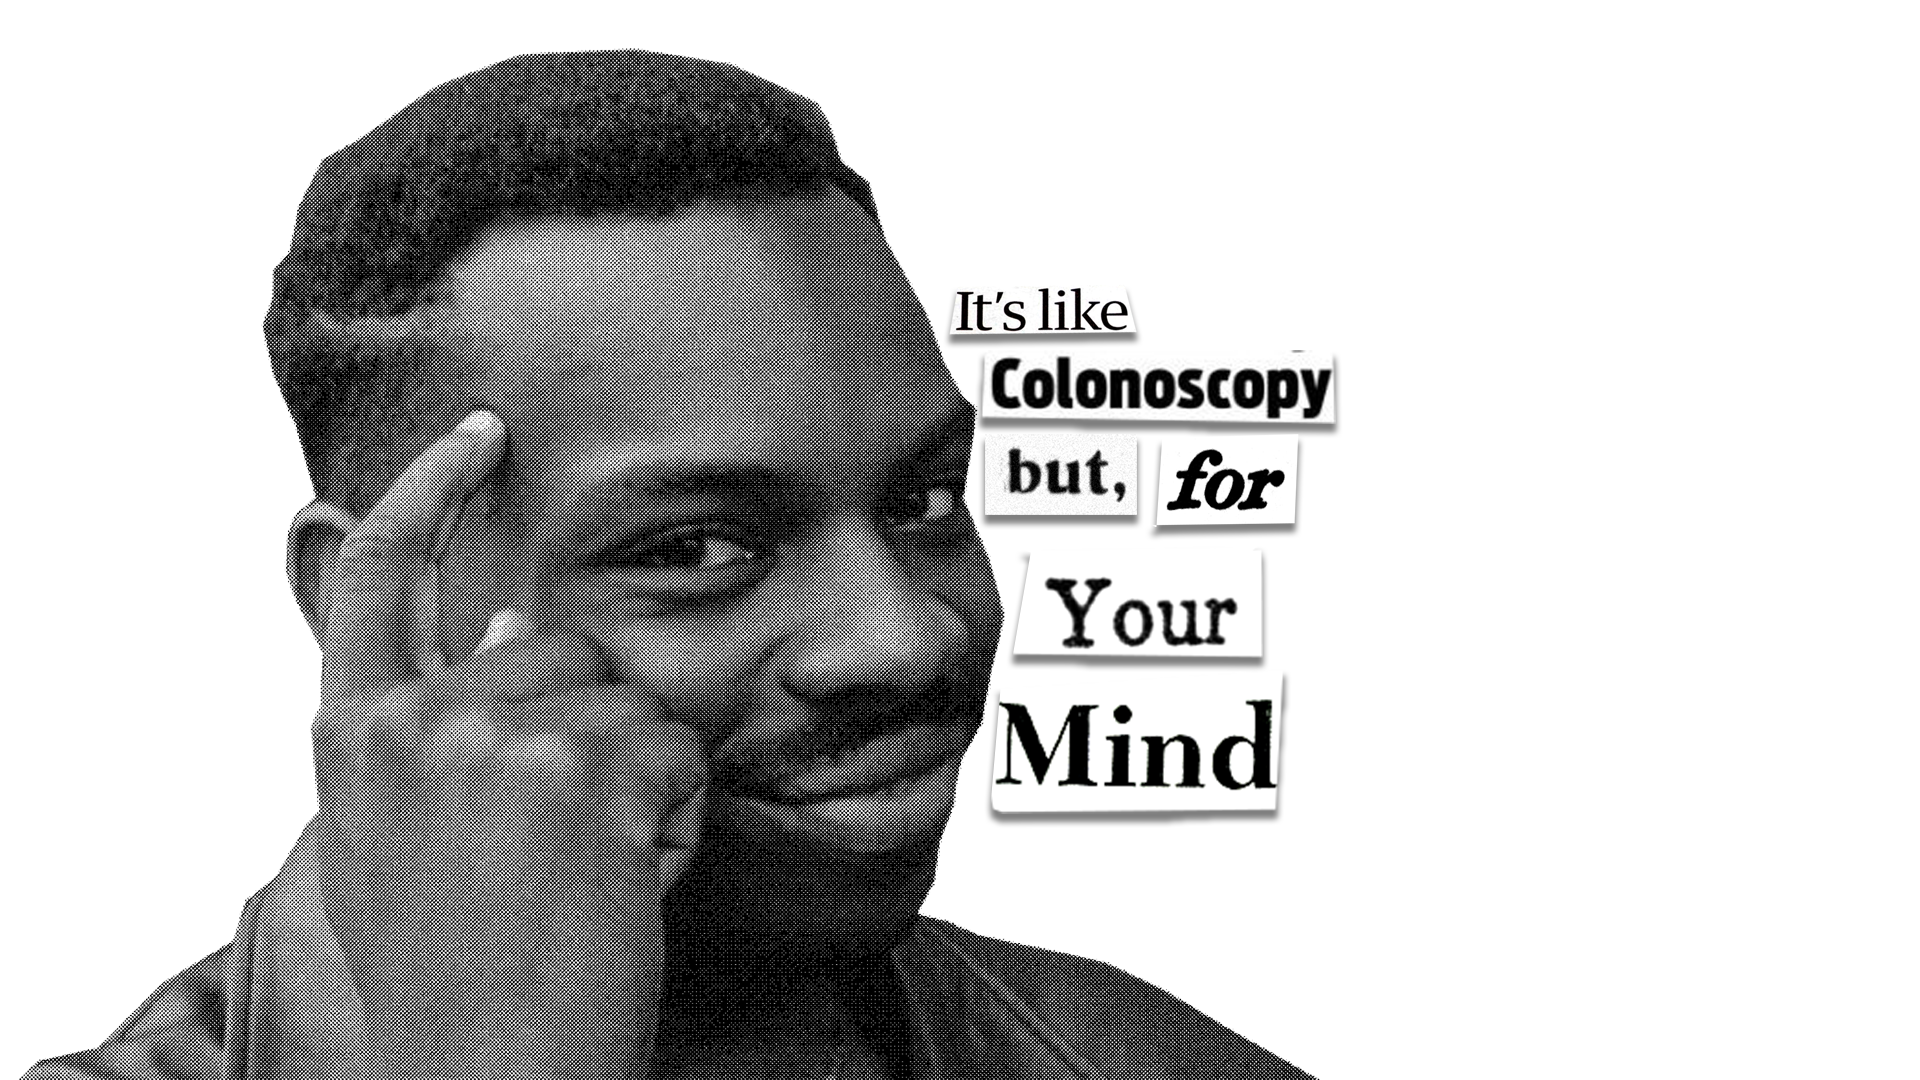
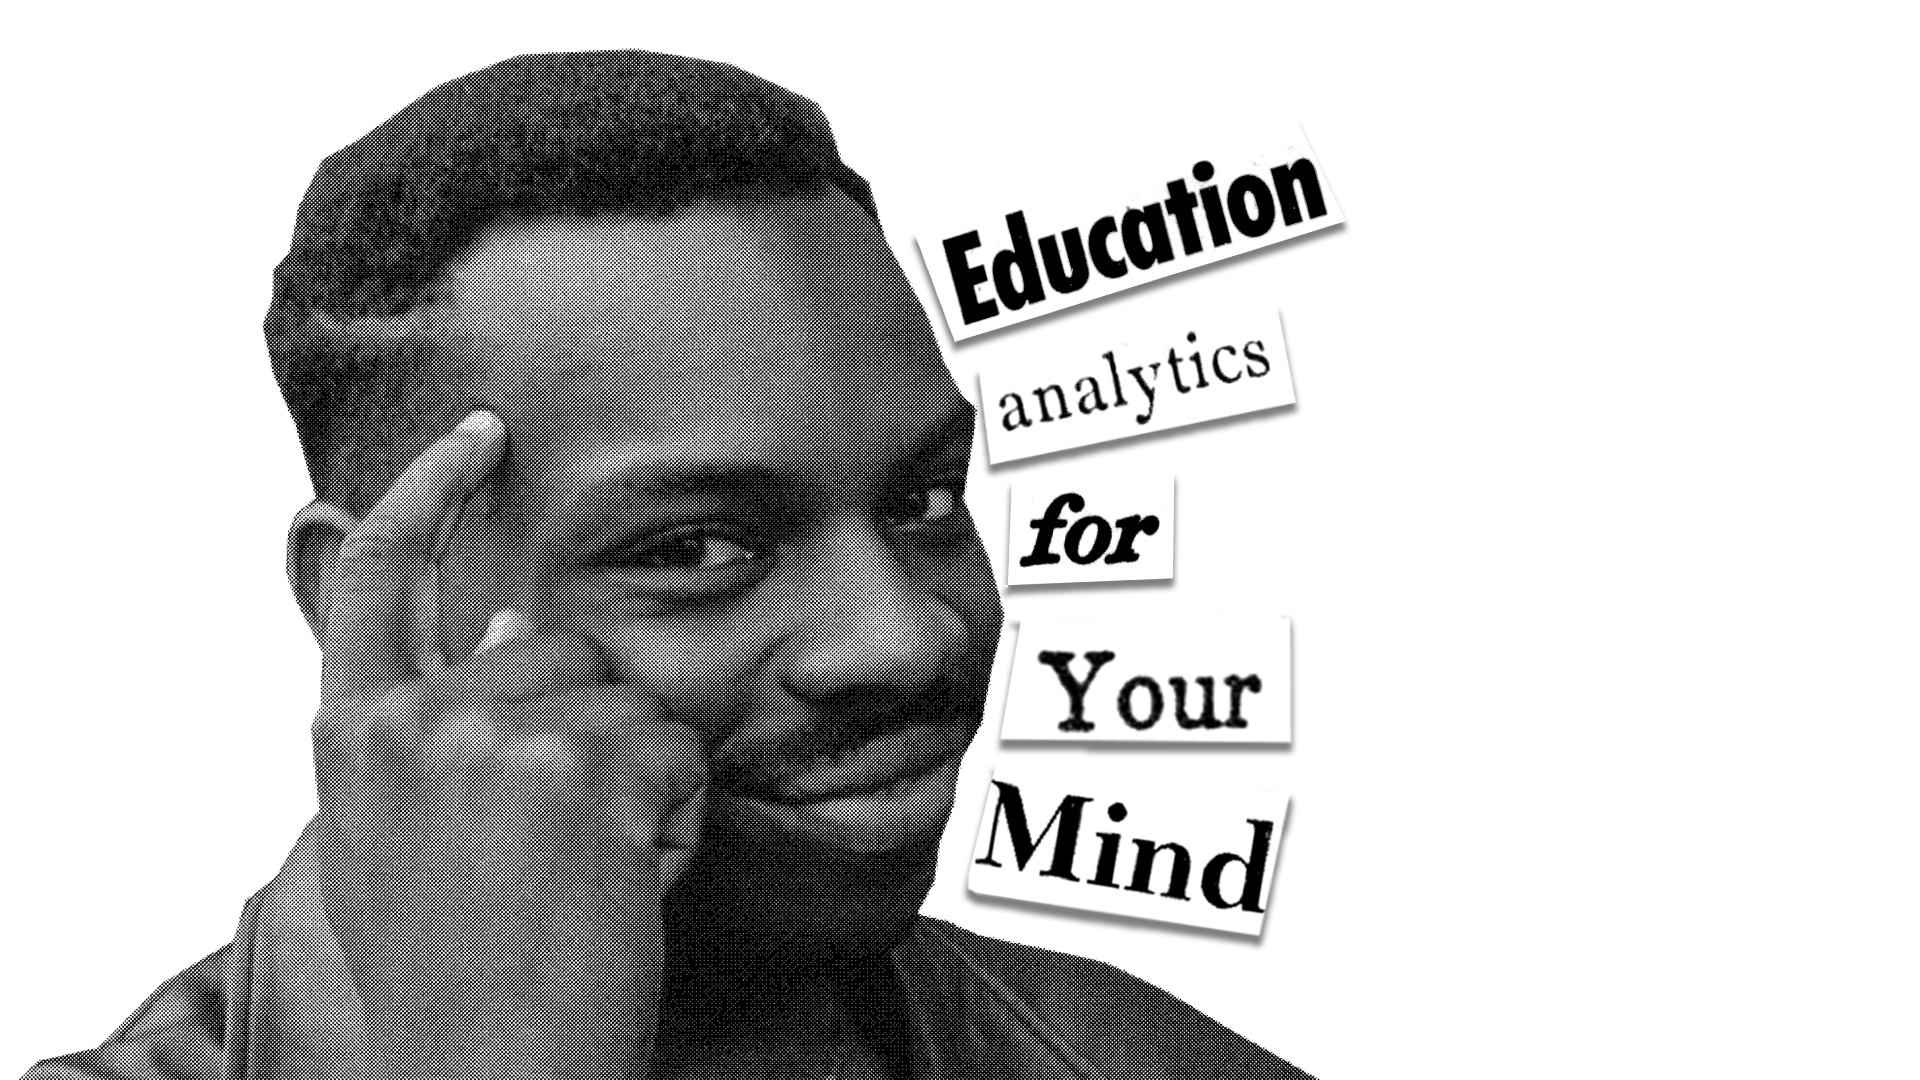
Update hero image and homepage/tests page copy

Changed region(s): [[0.4688, 0.1528, 0.7188, 0.8861]]

diff --git a/pages/templates/pages/test_prep.html b/pages/templates/pages/test_prep.html
@@ -26,12 +26,14 @@
 
 <!-- ── Hero ──────────────────────────────────────────────────────────────── -->
 <div class="tp-hero">
-  <p class="tp-hero__label">Education Analytics</p>
-  <h1 class="tp-hero__title">Every test ends with a diagnosis, not just a score.</h1>
+  <p class="tp-hero__label">Data-driven test prep</p>
+  <h1 class="tp-hero__title">Every test ends with a precise diagnosis, not just a score.</h1>
   <p class="tp-hero__sub">
-    Each test is built using statistical analysis of the official exam corpus — real question
-    distributions, real skill weightings, real trap structures. After your child finishes,
-    you see exactly which reasoning patterns cost the most points and what to work on next.
+    We do two things: we first analyze the official exam corpus to understand the underlying 
+    patterns and structures. Then we use that information to build our own diagnostic and benchmark
+    tests. Each test is built using statistical, NLP, and machine learning analysis — real question
+    distributions, real skill weightings, real trap structures. After your child completes a test,
+    you'll see exactly where they fail so you can hammer on the right areas insted of practicing blind.
   </p>
   <div style="margin-top: 20px; display: flex; gap: 12px; flex-wrap: wrap;">
     <a href="/tutor/" class="home-hero__btn home-hero__btn--secondary">For tutors</a>
@@ -45,14 +47,15 @@
     <div class="tp-card__name">SHSAT</div>
     <div class="tp-card__full">Specialized High Schools Admissions Test</div>
     <p class="tp-card__desc">
-      After one test, you'll see the 3 skills costing the most points,
-      the trap types your child keeps falling for, and projected placement
-      at every specialized high school.
+      After just one test, you'll see exactly what skills the student is a rockstar in,
+      and where they suck more than Milli Vanilli at live shows. Unlike most AI-generated 
+      test-prep slop around, we go very granular and show you (in detail) which specific
+      traps catch them the most.
     </p>
     <ul class="tp-card__facts">
       <li>Free Baseline Test — 100 questions, full trap-by-trap error analysis</li>
       <li>See which mistake patterns repeat and what to study next</li>
-      <li>Conservative scores calibrated against real admissions cutoffs</li>
+      <li>CConservative scoring so your child doesn't think they're a genius (and then choose not to study)</li>
     </ul>
     <a href="/shsat/" class="tp-card__cta">Start SHSAT diagnostic &rarr;</a>
   </div>
@@ -61,9 +64,10 @@
     <div class="tp-card__name">Hunter</div>
     <div class="tp-card__full">Hunter College High School Entrance Exam</div>
     <p class="tp-card__desc">
-      One of the most selective public schools in the country. Full error
-      analysis after every test — see exactly which skills and question types
-      are costing points, and where to focus next.
+      ne of the most selective public schools in the country. Just imagine
+      all the fun IG humble brag selfies you can take if they get in. It's hard 
+      though (only 7% get in), but our data-driven error analysis after every test 
+      will help you see if they're really cut for it or you're just another hopeful parent.
     </p>
     <ul class="tp-card__facts">
       <li>Free Baseline Test with full error analysis</li>

diff --git a/pages/templates/pages/home.html b/pages/templates/pages/home.html
@@ -31,7 +31,7 @@
     <h1 class="home-hero__title">Standardized tests, reverse-engineered.</h1>
     <p class="home-hero__sub">
       We use research and data analytics to empower parents make better decisions 
-      about test prep. This is not another AI-generated test-prep sloppified crap.
+      about test prep. This is not another AI-generated slop platform.
       We data-mine real exams (SHSAT, Hunter) and turn them into precise readiness 
       reports for students, parents, and tutors.
     </p>
